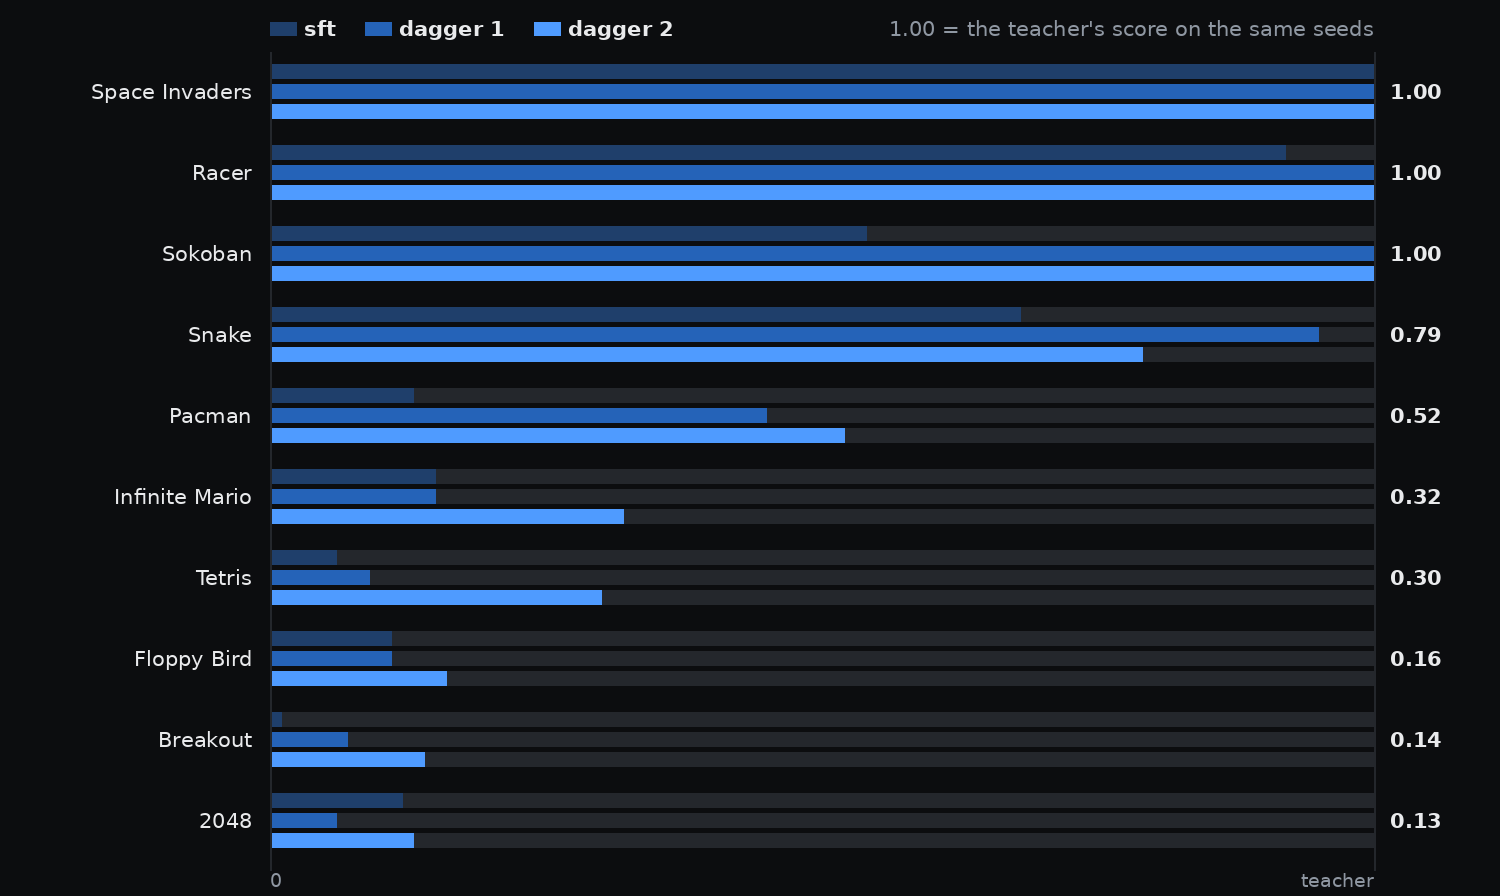
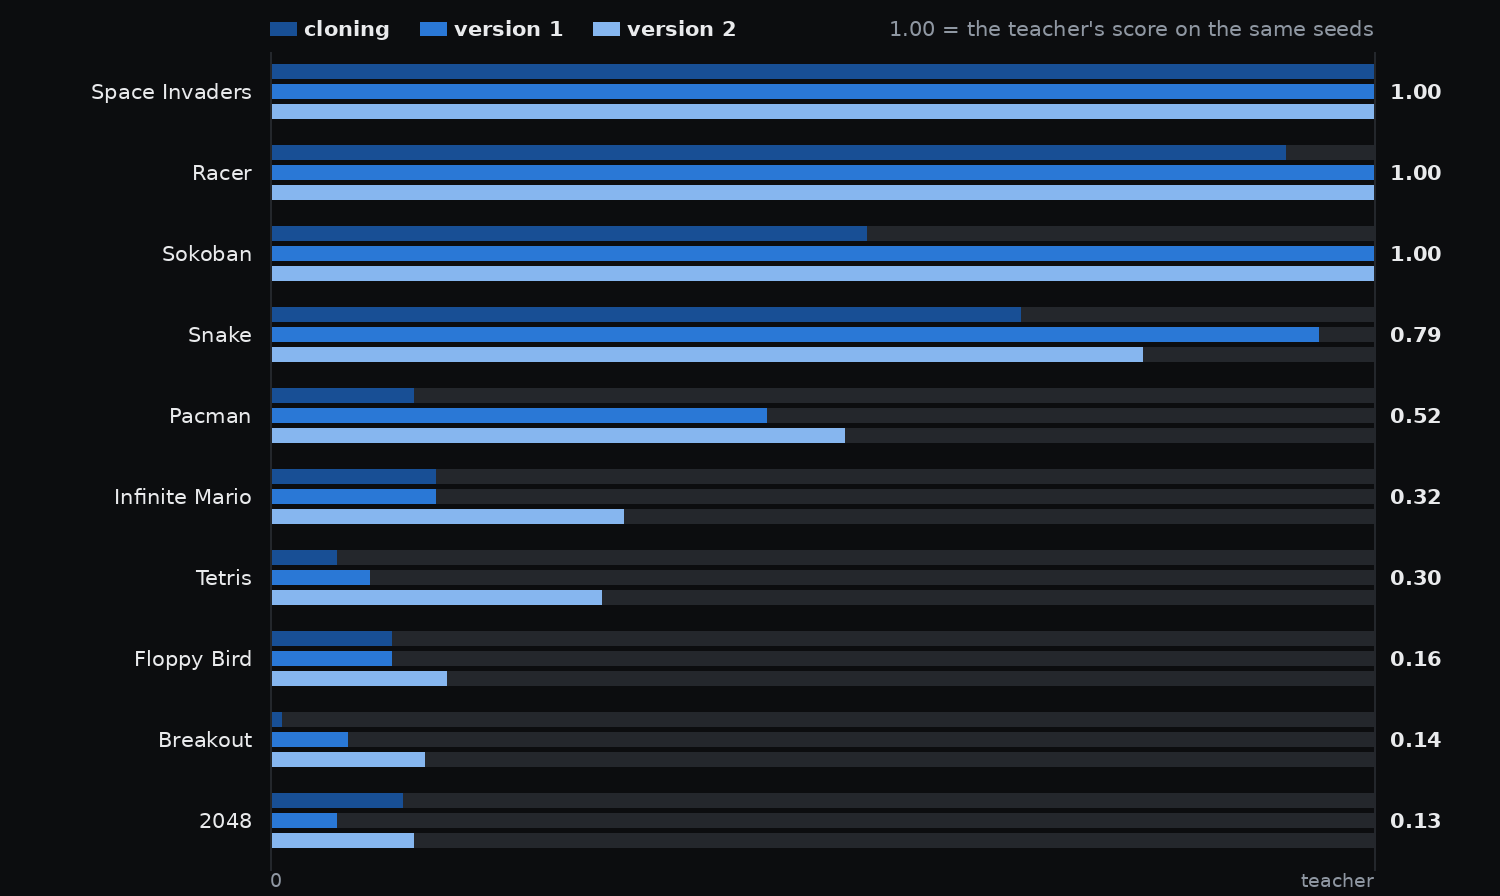
figs: handover, calibration and one-step-late charts, decision block diagram, version 1/2 legend

Changed region(s): [[0.184, 0.0, 0.92, 0.3125], [0.184, 0.3438, 0.8893, 0.7812], [0.184, 0.8125, 0.276, 0.9688]]

diff --git a/scripts/readme_charts.py b/scripts/readme_charts.py
@@ -1,0 +1,171 @@
+"""README charts: System Two handover, calibration, and the one-step-late collapse.
+
+Light and dark versions of each, written to docs/assets/. Numbers come from runs/results/
+(handover/sft_all1_*.json, *_hrandom*.json, sft_all1.json, playjev-0.8b-dagger2_relabel.json),
+which are the same runs the README tables report.
+
+    python scripts/readme_charts.py
+"""
+import json
+from pathlib import Path
+
+import matplotlib
+matplotlib.use("Agg")
+import matplotlib.pyplot as plt
+
+ROOT = Path(__file__).resolve().parents[1]
+RES = ROOT / "runs" / "results"
+OUT = ROOT / "docs" / "assets"
+
+GAMES = ["mario", "snake", "tetris", "2048", "flappy", "pacman", "breakout", "invaders", "racer", "sokoban"]
+NAME = {"mario": "Infinite Mario", "snake": "Snake", "tetris": "Tetris", "2048": "2048",
+        "flappy": "Floppy Bird", "pacman": "Pacman", "breakout": "Breakout",
+        "invaders": "Space Invaders", "racer": "Racer", "sokoban": "Sokoban"}
+# random and teacher on the same 16 held-out seeds (README results table)
+BASE = {"mario": (613, 4229), "snake": (1.0, 114), "tetris": (162, 15288), "2048": (1021, 19593),
+        "flappy": (0.0, 84.0), "pacman": (113, 7026), "breakout": (496, 16547),
+        "invaders": (215, 400), "racer": (238, 6712), "sokoban": (6.6, 102.2)}
+
+
+class Theme:
+    def __init__(self, dark):
+        self.dark = dark
+        self.bg = "#0c0d0f" if dark else "#ffffff"
+        self.fg = "#e9eaec" if dark else "#16181c"
+        self.muted = "#8f97a2" if dark else "#6d747e"
+        self.grid = "#24272c" if dark else "#ececeb"
+        self.c1 = "#3987e5" if dark else "#2a78d6"   # blue
+        self.c2 = "#d95926" if dark else "#eb6834"   # orange
+        self.ramp = ("#184f95", "#2a78d6", "#86b6ef") if dark else ("#86b6ef", "#3987e5", "#1c5cab")
+
+    def apply(self, fig, axes):
+        fig.patch.set_facecolor(self.bg)
+        for ax in axes:
+            ax.set_facecolor(self.bg)
+            for side in ("top", "right"):
+                ax.spines[side].set_visible(False)
+            for side in ("left", "bottom"):
+                ax.spines[side].set_color(self.grid)
+            ax.tick_params(colors=self.muted, labelsize=10, length=3)
+            for lab in ax.get_xticklabels() + ax.get_yticklabels():
+                lab.set_color(self.muted)
+
+    def save(self, fig, stem):
+        p = OUT / (f"{stem}-dark.png" if self.dark else f"{stem}.png")
+        fig.savefig(p, facecolor=self.bg, bbox_inches="tight", pad_inches=0.22)
+        plt.close(fig)
+        return p
+
+
+def _handover_rows(game):
+    """(share handed over, score) for the confidence rule and for the random control."""
+    conf, rand = [], []
+    for f in sorted((RES / "handover").glob(f"sft_all1_{game}_handover*.json")):
+        d = json.load(open(f))
+        if d["handover_rate"] < 0.99:            # 1.01 is the teacher alone
+            conf.append((d["handover_rate"], d["score_mean"]))
+    for f in sorted((RES / "handover").glob(f"{game}_local_hrandom*.json")):
+        d = json.load(open(f))
+        rand.append((d["handover_rate"], d["score_mean"]))
+    alone = [c for c in conf if c[0] == 0.0]
+    return sorted(conf), sorted(alone + rand)
+
+
+def handover(dark=False, games=("breakout", "tetris", "pacman", "snake")):
+    """Score against the share of steps the teacher was asked to decide."""
+    t = Theme(dark)
+    fig, axes = plt.subplots(1, len(games), figsize=(13.6, 3.3), dpi=112, sharey=True)
+    t.apply(fig, axes)
+    for ax, g in zip(axes, games):
+        teacher = BASE[g][1]
+        conf, rand = _handover_rows(g)
+        ax.axhline(1.0, color=t.muted, lw=1.2, ls=(0, (4, 3)), zorder=1)
+        ax.plot([x for x, _ in rand], [y / teacher for _, y in rand], color=t.c2, lw=2,
+                marker="o", ms=5, mec=t.bg, mew=1.4, zorder=3)
+        ax.plot([x for x, _ in conf], [y / teacher for _, y in conf], color=t.c1, lw=2,
+                marker="o", ms=5, mec=t.bg, mew=1.4, zorder=4)
+        ax.set_title(f"{NAME[g]}    teacher {teacher:,.0f}", color=t.fg, fontsize=11.5, loc="left", pad=10)
+        ax.set_xlim(-0.03, 0.72)
+        ax.set_ylim(-0.04, 1.12)
+        ax.set_yticks([0, 0.25, 0.5, 0.75, 1.0])
+        ax.set_xticks([0, 0.25, 0.5])
+        ax.set_xticklabels(["0", "25%", "50%"])
+        ax.grid(axis="y", color=t.grid, lw=1, zorder=0)
+        ax.set_axisbelow(True)
+    axes[0].set_yticklabels(["0", "", "half the teacher", "", "teacher"])   # shared axis: set once
+    fig.text(0.008, 1.02, "steps picked by confidence", color=t.c1, fontsize=12, fontweight="bold")
+    fig.text(0.20, 1.02, "the same number picked at random", color=t.c2, fontsize=12, fontweight="bold")
+    fig.text(0.5, -0.04, "share of steps handed to the teacher", color=t.muted, fontsize=10.5, ha="center")
+    return t.save(fig, "handover")
+
+
+def calibration(dark=False, run="playjev-0.8b-dagger2_relabel.json"):
+    """How often the model's move matched the teacher, against the probability it gave that move."""
+    t = Theme(dark)
+    rows = {r["game"]: r for r in json.load(open(RES / run))}
+    fig, axes = plt.subplots(2, 5, figsize=(13.6, 5.4), dpi=112, sharex=True, sharey=True)
+    flat = list(axes.flat)
+    t.apply(fig, flat)
+    for ax, g in zip(flat, GAMES):
+        bins = rows[g]["calibration"]["bins"]
+        total = sum(b["n"] for b in bins)
+        ax.plot([0, 1], [0, 1], color=t.muted, lw=1.2, ls=(0, (4, 3)), alpha=.5, zorder=1)
+        ax.plot([b["p"] for b in bins], [b["acc"] for b in bins], color=t.c1, lw=1.8, zorder=3)
+        ax.scatter([b["p"] for b in bins], [b["acc"] for b in bins],
+                   s=[12 + 190 * (b["n"] / total) ** 0.5 for b in bins],
+                   color=t.c1, edgecolor=t.bg, linewidth=1.2, zorder=4)
+        ax.set_title(NAME[g], color=t.fg, fontsize=11.5, loc="left", pad=8)
+        ax.set_xlim(0, 1)
+        ax.set_ylim(0, 1)
+        ax.set_xticks([0, 0.5, 1.0])
+        ax.set_yticks([0, 0.5, 1.0])
+        ax.grid(color=t.grid, lw=1, zorder=0)
+        ax.set_axisbelow(True)
+    flat[0].set_ylabel("matched the teacher", color=t.muted, fontsize=10.5)
+    flat[5].set_ylabel("matched the teacher", color=t.muted, fontsize=10.5)
+    fig.text(0.5, 0.0, "probability the model gave the move it took", color=t.muted, fontsize=10.5, ha="center")
+    fig.tight_layout(h_pad=2.4, w_pad=1.6)
+    return t.save(fig, "calibration")
+
+
+def realtime(dark=False, run="sft_all1.json"):
+    """Teacher-normalised score with the decision on time and one step late."""
+    t = Theme(dark)
+    rows = json.load(open(RES / run))
+    def score(game, delay):
+        # the guarded protocol run: skip-noop executor, delay 0 and 1 on the same seeds
+        want = f"play_{game}_local_delay{delay}.json"
+        return next(r["score_mean"] for r in rows if r.get("source") == want)
+    def frac(game, delay):
+        rnd, tea = BASE[game]
+        return max(0.0, (score(game, delay) - rnd) / (tea - rnd))
+
+    order = sorted(GAMES, key=lambda g: -frac(g, 0))
+    fig, ax = plt.subplots(figsize=(11.2, 4.6), dpi=112)
+    t.apply(fig, [ax])
+    h = 0.34
+    for i, g in enumerate(order):
+        y = len(order) - i
+        for d, col, off in ((0, t.c1, h / 2 + 0.02), (1, t.c2, -h / 2 - 0.02)):
+            v = frac(g, d)
+            ax.barh(y + off, v, height=h, color=col, zorder=3)
+            ax.text(v + 0.012, y + off, f"{v:.2f}", va="center", ha="left",
+                    color=t.fg, fontsize=10, zorder=4)
+        ax.text(-0.015, y, NAME[g], va="center", ha="right", color=t.fg, fontsize=11)
+    ax.set_xlim(0, 1.1)
+    ax.set_ylim(0.3, len(order) + 0.9)
+    ax.set_yticks([])
+    ax.spines["left"].set_visible(False)
+    ax.set_xticks([0, 0.25, 0.5, 0.75, 1.0])
+    ax.set_xticklabels(["random", "", "half", "", "teacher"])
+    ax.grid(axis="x", color=t.grid, lw=1, zorder=0)
+    ax.set_axisbelow(True)
+    ax.text(0.0, len(order) + 0.62, "on time", color=t.c1, fontsize=11.5, fontweight="bold")
+    ax.text(0.14, len(order) + 0.62, "one step late", color=t.c2, fontsize=11.5, fontweight="bold")
+    return t.save(fig, "realtime")
+
+
+if __name__ == "__main__":
+    for dark in (False, True):
+        for fn in (handover, calibration, realtime):
+            print("  ", fn(dark))

diff --git a/scripts/decision_svg.py b/scripts/decision_svg.py
@@ -1,0 +1,83 @@
+"""The decision diagram for the README: frame + option list, one forward pass, a probability per move.
+
+Light and dark SVGs, drawn at fixed coordinates so GitHub renders them identically everywhere.
+Arrowheads are explicit paths and the font is a plain stack, since the viewer's browser draws this.
+
+    python scripts/decision_svg.py
+"""
+from pathlib import Path
+
+OUT = Path(__file__).resolve().parents[1] / "docs" / "assets"
+FONT = "-apple-system, BlinkMacSystemFont, 'Segoe UI', Roboto, Helvetica, Arial, sans-serif"
+
+W, H = 960, 252
+MOVES = [("up", 0.05), ("down", 0.02), ("left", 0.90), ("right", 0.03)]
+
+LIGHT = dict(bg="#ffffff", ink="#16181c", muted="#6d747e", fill="#f6f7f9", stroke="#e3e6ea",
+             line="#c9ced5", accent="#2a78d6", dim="#bcd6f5", track="#eef0f2")
+DARK = dict(bg="#0c0d0f", ink="#e9eaec", muted="#8f97a2", fill="#15171a", stroke="#262a30",
+            line="#3a3f47", accent="#3987e5", dim="#1f4878", track="#1b1e22")
+
+
+def box(c, x, y, w, h, title, sub):
+    return f"""  <rect x="{x}" y="{y}" width="{w}" height="{h}" rx="12" fill="{c['fill']}" stroke="{c['stroke']}" stroke-width="1.5"/>
+  <text x="{x + w / 2}" y="{y + h / 2 - 6}" text-anchor="middle" font-size="19" font-weight="600" fill="{c['ink']}">{title}</text>
+  <text x="{x + w / 2}" y="{y + h / 2 + 18}" text-anchor="middle" font-size="14.5" fill="{c['muted']}">{sub}</text>"""
+
+
+def arrow(c, x0, y0, x1, y1):
+    """Straight run with a solid head at (x1, y1)."""
+    return f"""  <path d="M {x0} {y0} L {x1 - 9} {y1}" stroke="{c['line']}" stroke-width="2.4" fill="none"/>
+  <path d="M {x1} {y1} L {x1 - 11} {y1 - 6.5} L {x1 - 11} {y1 + 6.5} Z" fill="{c['line']}"/>"""
+
+
+def svg(dark=False):
+    c = DARK if dark else LIGHT
+    cy = 128
+    parts = [f'<svg xmlns="http://www.w3.org/2000/svg" viewBox="0 0 {W} {H}" width="{W}" height="{H}" '
+             f'role="img" aria-label="A game frame and an option list go into one forward pass, '
+             f'which gives a probability for every move">',
+             f'  <rect width="{W}" height="{H}" fill="{c["bg"]}"/>',
+             f'  <g font-family="{FONT}">']
+
+    parts.append(box(c, 30, cy - 90, 200, 76, "game frame", "the only input"))
+    parts.append(box(c, 30, cy + 14, 200, 76, "option list", "up &#183; down &#183; left &#183; right"))
+
+    # the two inputs join, then one line enters the pass
+    parts.append(f'  <path d="M 230 {cy - 52} H 262 V {cy + 52} H 230" stroke="{c["line"]}" '
+                 f'stroke-width="2.4" fill="none" stroke-linejoin="round"/>')
+    parts.append(arrow(c, 262, cy, 300, cy))
+
+    parts.append(f'  <rect x="300" y="{cy - 56}" width="240" height="112" rx="14" fill="{c["fill"]}" '
+                 f'stroke="{c["accent"]}" stroke-width="2"/>')
+    parts.append(f'  <text x="420" y="{cy - 6}" text-anchor="middle" font-size="21" font-weight="700" '
+                 f'fill="{c["ink"]}">one forward pass</text>')
+    parts.append(f'  <text x="420" y="{cy + 20}" text-anchor="middle" font-size="14.5" '
+                 f'fill="{c["muted"]}">PlayJev 0.8B</text>')
+
+    parts.append(arrow(c, 540, cy, 596, cy))
+
+    parts.append(f'  <text x="656" y="{cy - 76}" font-size="14.5" fill="{c["muted"]}">'
+                 f'a probability for every move</text>')
+    x0, full = 668, 200
+    for i, (name, p) in enumerate(MOVES):
+        y = cy - 51 + i * 34
+        hot = p == max(v for _, v in MOVES)
+        parts.append(f'  <text x="{x0 - 14}" y="{y + 14.5}" text-anchor="end" font-size="16" '
+                     f'fill="{c["ink"]}">{name}</text>')
+        parts.append(f'  <rect x="{x0}" y="{y}" width="{full}" height="20" rx="4" fill="{c["track"]}"/>')
+        parts.append(f'  <rect x="{x0}" y="{y}" width="{max(4, round(full * p))}" height="20" rx="4" '
+                     f'fill="{c["accent"] if hot else c["dim"]}"/>')
+        parts.append(f'  <text x="{x0 + full + 14}" y="{y + 14.5}" font-size="16" '
+                     f'font-weight="{700 if hot else 400}" fill="{c["ink"] if hot else c["muted"]}">'
+                     f'{p:.2f}</text>')
+
+    parts += ["  </g>", "</svg>", ""]
+    p = OUT / ("decision-flow-dark.svg" if dark else "decision-flow.svg")
+    p.write_text("\n".join(parts), encoding="utf-8")
+    return p
+
+
+if __name__ == "__main__":
+    for dark in (False, True):
+        print("  ", svg(dark))

diff --git a/scripts/readme_figs.py b/scripts/readme_figs.py
@@ -121,7 +121,7 @@ def social(W=1280, H=640, cols=5, cell=(224, 166), gut=12, pad=56):
 def chart(dark=False):
     bg, fg, muted, track = ("#0c0d0f", "#e9eaec", "#8f97a2", "#24272c") if dark else \
                            ("#ffffff", "#16181c", "#6d747e", "#ececeb")
-    c1, c2, c3 = ("#1f3f6b", "#2563b8", "#4f9bff") if dark else ("#c3d9f7", "#6aa3f0", "#2F80ED")
+    c1, c2, c3 = ("#184f95", "#2a78d6", "#86b6ef") if dark else ("#86b6ef", "#3987e5", "#1c5cab")
     pad, lab, right = 34, 236, 92
     barh, gap, rowgap = 15, 5, 26
     rowh = 3 * barh + 2 * gap + rowgap
@@ -136,7 +136,7 @@ def chart(dark=False):
 
     # legend
     lx = x0
-    for name, col in (("sft", c1), ("dagger 1", c2), ("dagger 2", c3)):
+    for name, col in (("cloning", c1), ("version 1", c2), ("version 2", c3)):
         d.rectangle([lx, 22, lx + 26, 22 + 13], fill=col)
         d.text((lx + 34, 28), name, font=fb, fill=fg, anchor="lm")
         lx += 34 + int(d.textlength(name, font=fb)) + 30
